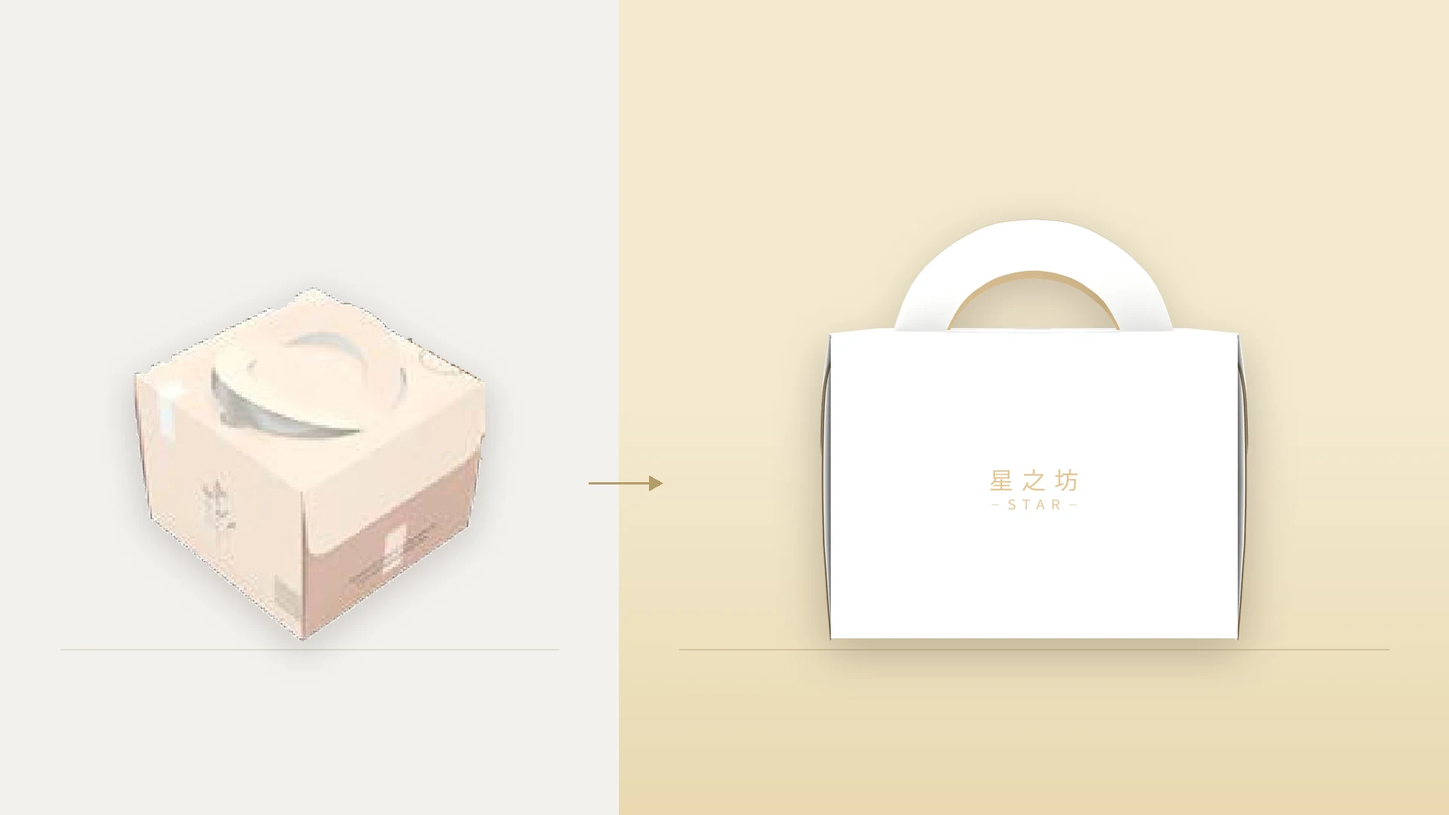
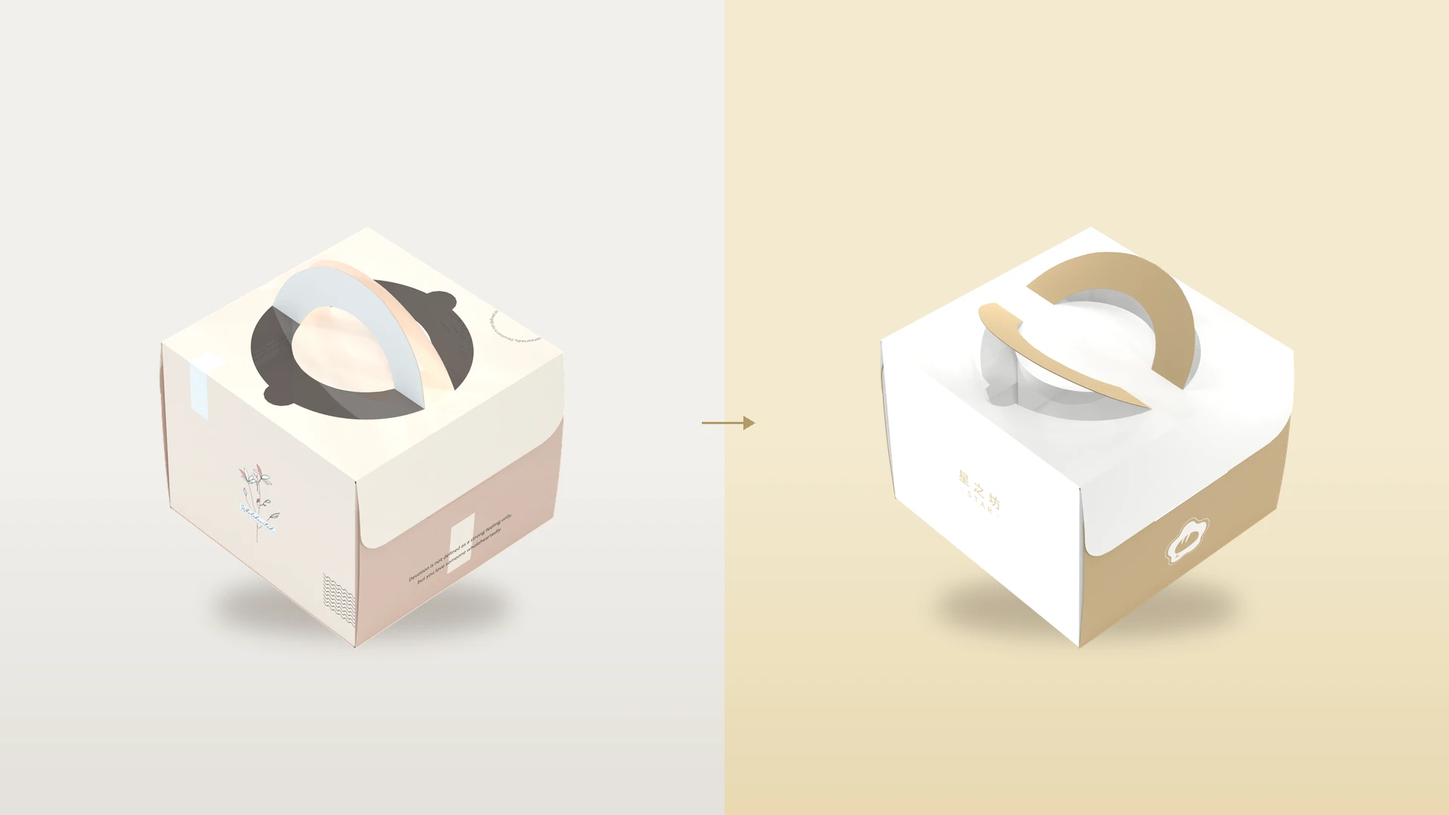
Cases: 星之坊 公版對照改用 NAS 官方公版 45° 渲染圖（去背）＋客戶設計 45° 對照
Claude-Session: https://claude.ai/code/session_01FHAxfGfD8vpumr7C1YBcXa

Changed region(s): [[0.0938, 0.0, 0.5, 1.0], [0.5625, 0.2444, 0.9062, 0.825]]

diff --git a/cases/gemalan.html b/cases/gemalan.html
@@ -26,7 +26,7 @@
 </header>
 
 <main class="sd-case">
-<article class="cs" style="--cink:#4A3A2E;--caccent:#B39A68;--csub:#9A8C78;--cbg:#FBF6EA"><header class="rl-head2 cs-io"><p class="rl-eb">STOCK PACKAGING</p><h1><span class="rl-lw" style="--lg:url(./gemalan/logo.png);width:min(300px,62vw)"><img class="rl-logo" src="./gemalan/logo.png" alt="葛瑪蘭之星飯店 Logo"></span><span class="sr">葛瑪蘭之星飯店｜星之坊</span></h1><p class="rl-kind">公版盒型・客戶自行設計</p><p class="rl-en">Star Bakery — Cake Boxes on Stock Structures</p><div class="rl-meta2"><div><small>Client</small><b>葛瑪蘭之星飯店｜星之坊</b></div><div><small>Scope</small><b>公版盒型 4 款・印刷生產</b></div><div><small>Year</small><b>2023</b></div></div></header><figure class="rl-hero"><img class="rl-pg" src="./gemalan/s/hero.webp?v=4" alt="星之坊 8吋上下蓋蛋糕盒 情境" loading="eager"></figure><div class="rl-prog" aria-hidden="true"><i></i></div><div class="rl-cnt" aria-hidden="true"><b>01</b><span>/ 09</span></div><section class="rl-reel"><figure class="rl-ai cs-io" style="--W:1920"><div class="rl-st"><img class="rl-pg" src="./gemalan/s/02.webp?v=4" alt="星之坊 02" loading="lazy" decoding="async"><div class="rl-hv"></div><div class="rl-tx"><span class="f-sans" style="--i:0;left:47.750%;top:27.778%;--s:24.0;--ls:0;color:#B39A68;font-weight:600">CLIENT</span><span class="f-serif" style="--i:1;left:41.406%;top:66.667%;--s:30.0;--ls:0;color:#4A3A2E;font-weight:500">葛瑪蘭之星飯店｜星之坊</span></div></div><details class="rl-flow"><summary>展開本頁文字</summary><div class="rl-fb"><p>葛瑪蘭之星飯店｜星之坊</p></div></details></figure><figure class="rl-ai cs-io" style="--W:1920"><div class="rl-st"><img class="rl-pg" src="./gemalan/s/c1.webp?v=4" alt="星之坊 c1" loading="lazy" decoding="async"><div class="rl-hv"></div><div class="rl-tx"><span class="f-sans" style="--i:0;left:4.167%;top:6.481%;--s:24.0;--ls:0.2;color:#B39A68;font-weight:600">STOCK STRUCTURE 01</span><span class="f-sans" style="--i:1;left:4.167%;top:9.815%;--s:24.0;--ls:0;color:#B39A68;font-weight:300">/</span><span class="f-serif" style="--i:2;left:5.625%;top:10.185%;--s:34.0;--ls:0;color:#4A3A2E;font-weight:700">公版盒型</span><span class="f-serif" style="--i:3;left:17.292%;top:86.111%;--s:26.0;--ls:0;color:#6F6A64;font-weight:700">薪鼎公版盒型</span><span class="f-sans" style="--i:4;left:17.188%;top:90.278%;--s:20.0;--ls:0;color:#8E8880;font-weight:400">公版花色「絮語」</span><span class="f-serif" style="--i:5;left:66.208%;top:86.111%;--s:26.0;--ls:0;color:#4A3A2E;font-weight:700">星之坊 套用設計</span><span class="f-sans" style="--i:6;left:62.917%;top:90.278%;--s:20.0;--ls:0;color:#9A8C78;font-weight:400">4吋手提蛋糕盒・14×14×10.5 cm</span></div></div><details class="rl-flow"><summary>展開本頁文字</summary><div class="rl-fb"><p>公版盒型：4吋手提蛋糕盒 14×14×10.5 cm</p><p>左：薪鼎公版盒型（公版花色「絮語」）</p><p>右：星之坊 套用設計</p></div></details></figure><figure class="rl-ai cs-io" style="--W:1920"><div class="rl-st"><img class="rl-pg" src="./gemalan/s/c2.webp?v=4" alt="星之坊 c2" loading="lazy" decoding="async"><div class="rl-hv"></div><div class="rl-tx"><span class="f-sans" style="--i:0;left:4.167%;top:6.481%;--s:24.0;--ls:0.2;color:#B39A68;font-weight:600">STOCK STRUCTURE 02</span><span class="f-sans" style="--i:1;left:4.167%;top:9.815%;--s:24.0;--ls:0;color:#B39A68;font-weight:300">/</span><span class="f-serif" style="--i:2;left:5.625%;top:10.185%;--s:34.0;--ls:0;color:#4A3A2E;font-weight:700">公版盒型</span><span class="f-serif" style="--i:3;left:17.292%;top:86.111%;--s:26.0;--ls:0;color:#6F6A64;font-weight:700">薪鼎公版盒型</span><span class="f-sans" style="--i:4;left:17.188%;top:90.278%;--s:20.0;--ls:0;color:#8E8880;font-weight:400">公版花色「絮語」</span><span class="f-serif" style="--i:5;left:66.208%;top:86.111%;--s:26.0;--ls:0;color:#4A3A2E;font-weight:700">星之坊 套用設計</span><span class="f-sans" style="--i:6;left:63.021%;top:90.278%;--s:20.0;--ls:0;color:#9A8C78;font-weight:400">6吋上下蓋蛋糕盒・21×21×16 cm</span></div></div><details class="rl-flow"><summary>展開本頁文字</summary><div class="rl-fb"><p>公版盒型：6吋上下蓋蛋糕盒 21×21×16 cm</p><p>左：薪鼎公版盒型（公版花色「絮語」）</p><p>右：星之坊 套用設計</p></div></details></figure><figure class="rl-ai cs-io" style="--W:1920"><div class="rl-st"><img class="rl-pg" src="./gemalan/s/c3.webp?v=4" alt="星之坊 c3" loading="lazy" decoding="async"><div class="rl-hv"></div><div class="rl-tx"><span class="f-sans" style="--i:0;left:4.167%;top:6.481%;--s:24.0;--ls:0.2;color:#B39A68;font-weight:600">STOCK STRUCTURE 03</span><span class="f-sans" style="--i:1;left:4.167%;top:9.815%;--s:24.0;--ls:0;color:#B39A68;font-weight:300">/</span><span class="f-serif" style="--i:2;left:5.625%;top:10.185%;--s:34.0;--ls:0;color:#4A3A2E;font-weight:700">公版盒型</span><span class="f-serif" style="--i:3;left:17.292%;top:86.111%;--s:26.0;--ls:0;color:#6F6A64;font-weight:700">薪鼎公版盒型</span><span class="f-sans" style="--i:4;left:16.667%;top:90.278%;--s:20.0;--ls:0;color:#8E8880;font-weight:400">公版花色「蒲公英」</span><span class="f-serif" style="--i:5;left:66.208%;top:86.111%;--s:26.0;--ls:0;color:#4A3A2E;font-weight:700">星之坊 套用設計</span><span class="f-sans" style="--i:6;left:61.771%;top:90.278%;--s:20.0;--ls:0;color:#9A8C78;font-weight:400">8吋上下蓋蛋糕盒・25.4×25.4×16 cm</span></div></div><details class="rl-flow"><summary>展開本頁文字</summary><div class="rl-fb"><p>公版盒型：8吋上下蓋蛋糕盒 25.4×25.4×16 cm</p><p>左：薪鼎公版盒型（公版花色「蒲公英」）</p><p>右：星之坊 套用設計</p></div></details></figure><figure class="rl-ai cs-io" style="--W:1920"><div class="rl-st"><img class="rl-pg" src="./gemalan/s/c4.webp?v=4" alt="星之坊 c4" loading="lazy" decoding="async"><div class="rl-hv"></div><div class="rl-tx"><span class="f-sans" style="--i:0;left:4.167%;top:6.481%;--s:24.0;--ls:0.2;color:#B39A68;font-weight:600">STOCK STRUCTURE 04</span><span class="f-sans" style="--i:1;left:4.167%;top:9.815%;--s:24.0;--ls:0;color:#B39A68;font-weight:300">/</span><span class="f-serif" style="--i:2;left:5.625%;top:10.185%;--s:34.0;--ls:0;color:#4A3A2E;font-weight:700">公版盒型</span><span class="f-serif" style="--i:3;left:17.292%;top:86.111%;--s:26.0;--ls:0;color:#6F6A64;font-weight:700">薪鼎公版盒型</span><span class="f-sans" style="--i:4;left:17.188%;top:90.278%;--s:20.0;--ls:0;color:#8E8880;font-weight:400">公版花色「絮語」</span><span class="f-serif" style="--i:5;left:66.208%;top:86.111%;--s:26.0;--ls:0;color:#4A3A2E;font-weight:700">星之坊 套用設計</span><span class="f-sans" style="--i:6;left:61.771%;top:90.278%;--s:20.0;--ls:0;color:#9A8C78;font-weight:400">花瓣盒（切片蛋糕盒）・15×10×13 cm</span></div></div><details class="rl-flow"><summary>展開本頁文字</summary><div class="rl-fb"><p>公版盒型：花瓣盒（切片蛋糕盒） 15×10×13 cm</p><p>左：薪鼎公版盒型（公版花色「絮語」）</p><p>右：星之坊 套用設計</p></div></details></figure><figure class="rl-ai cs-io" style="--W:1920"><div class="rl-st"><img class="rl-pg" src="./gemalan/s/04.webp?v=4" alt="星之坊 04" loading="lazy" decoding="async"><div class="rl-hv"></div><div class="rl-tx"><span class="f-sans" style="--i:0;left:4.167%;top:6.481%;--s:26.0;--ls:0.2;color:#B39A68;font-weight:600">APPLIED DESIGN</span><span class="f-sans" style="--i:1;left:4.167%;top:10.000%;--s:26.0;--ls:0;color:#B39A68;font-weight:300">/</span><span class="f-serif" style="--i:2;left:5.833%;top:10.370%;--s:34.0;--ls:0;color:#4A3A2E;font-weight:700">套用的設計</span><span class="f-sans" style="--i:3;left:9.375%;top:30.556%;--s:24.0;--ls:0;color:#9A8C78;font-weight:500">設計來源</span><span class="f-serif" style="--i:4;left:9.375%;top:34.259%;--s:40.0;--ls:0;color:#4A3A2E;font-weight:700">客戶自行設計</span><span class="f-sans" style="--i:5;left:9.375%;top:42.593%;--s:24.0;--ls:0;color:#9A8C78;font-weight:500">品牌標誌</span><span class="f-serif" style="--i:6;left:9.375%;top:46.296%;--s:32.0;--ls:0;color:#4A3A2E;font-weight:600">星之坊 STAR</span><span class="f-sans" style="--i:7;left:10.677%;top:67.593%;--s:20.0;--ls:0;color:#9A8C78;font-weight:500">奶油黃</span><span class="f-sans" style="--i:8;left:18.490%;top:67.593%;--s:20.0;--ls:0;color:#9A8C78;font-weight:500">檸檬黃</span><span class="f-sans" style="--i:9;left:26.823%;top:67.593%;--s:20.0;--ls:0;color:#9A8C78;font-weight:500">沙金</span><span class="f-sans" style="--i:10;left:34.115%;top:67.593%;--s:20.0;--ls:0;color:#9A8C78;font-weight:500">可可棕</span><span class="f-sans" style="--i:11;left:42.969%;top:67.593%;--s:20.0;--ls:0;color:#9A8C78;font-weight:500">白</span></div></div><details class="rl-flow"><summary>展開本頁文字</summary><div class="rl-fb"><p>設計來源：客戶自行設計</p><p>品牌標誌：星之坊 STAR</p></div></details></figure><figure class="rl-ai cs-io" style="--W:1920"><div class="rl-st"><img class="rl-pg" src="./gemalan/s/sc6.webp?v=4" alt="星之坊 6吋上下蓋蛋糕盒 情境" loading="lazy" decoding="async"><div class="rl-hv"></div><div class="rl-tx"><span class="f-sans" style="--i:0;left:7.292%;top:30.556%;--s:22.0;--ls:0.2;color:#B39A68;font-weight:600">IN USE 02</span><span class="f-serif" style="--i:1;left:7.292%;top:35.185%;--s:40.0;--ls:0;color:#4A3A2E;font-weight:700">6吋上下蓋蛋糕盒</span><span class="f-sans" style="--i:2;left:7.292%;top:42.593%;--s:20.0;--ls:0;color:#9A8C78;font-weight:400">21 × 21 × 16 cm</span></div></div><details class="rl-flow"><summary>展開本頁文字</summary><div class="rl-fb"><p>6吋上下蓋蛋糕盒 21 × 21 × 16 cm</p></div></details></figure><figure class="rl-ai cs-io" style="--W:1920"><div class="rl-st"><img class="rl-pg" src="./gemalan/s/scpetal.webp?v=4" alt="星之坊 花瓣盒 情境" loading="lazy" decoding="async"><div class="rl-hv"></div><div class="rl-tx"><span class="f-sans" style="--i:0;left:7.292%;top:30.556%;--s:22.0;--ls:0.2;color:#B39A68;font-weight:600">IN USE 03</span><span class="f-serif" style="--i:1;left:7.292%;top:35.185%;--s:40.0;--ls:0;color:#4A3A2E;font-weight:700">花瓣盒（切片蛋糕盒）</span><span class="f-sans" style="--i:2;left:7.292%;top:42.593%;--s:20.0;--ls:0;color:#9A8C78;font-weight:400">15 × 10 × 13 cm</span></div></div><details class="rl-flow"><summary>展開本頁文字</summary><div class="rl-fb"><p>花瓣盒（切片蛋糕盒） 15 × 10 × 13 cm</p></div></details></figure></section><section class="rl-cred"><div class="rl-cl"><p class="rl-ck">Credits</p><p class="rl-nt">（名單待確認）</p></div><ul><li><small>Client</small><b>葛瑪蘭之星飯店｜星之坊</b></li><li><small>Design</small><b>客戶自行設計</b></li><li><small>Stock Structures</small><b>薪鼎公版盒型</b></li><li><small>Production</small><b>Senior Deed</b></li><li><small>Year</small><b>2023</b></li></ul></section><div class="rl-end" style="padding-top:90px"><a href="./"><i>←</i>回到全部作品</a></div></article><script>(function(){document.querySelectorAll('.rl-st').forEach(function(st){var hs=[].slice.call(st.querySelectorAll('.hot'));if(!hs.length)return;var cur=null;function set(g){if(g===cur)return;cur=g;st.querySelectorAll('.hi').forEach(function(e){e.classList.remove('hi')});st.classList.toggle('hv',g!==null);if(g!==null)st.querySelectorAll('[data-g="'+g+'"]').forEach(function(e){e.classList.add('hi')})}st.addEventListener('mousemove',function(ev){var g=null;hs.forEach(function(h){var r=h.getBoundingClientRect();if(ev.clientX>=r.left&&ev.clientX<=r.right&&ev.clientY>=r.top&&ev.clientY<=r.bottom)g=h.dataset.g});set(g)});st.addEventListener('mouseleave',function(){set(null)})});document.addEventListener('click',function(e){var x=e.target.closest('.hex');if(!x)return;var v=x.textContent.trim();(navigator.clipboard?navigator.clipboard.writeText(v):Promise.reject()).catch(function(){}).then(function(){x.classList.add('ok');setTimeout(function(){x.classList.remove('ok')},1400)})});var F=document.querySelector('.rl-float');if(F&&matchMedia('(any-hover:none)').matches){var fo=new IntersectionObserver(function(es){if(es[0].isIntersecting){setTimeout(function(){F.classList.add('go')},2600);fo.disconnect()}},{threshold:.5});fo.observe(F.parentNode)}var R=document.querySelector('.rl-reel');if(R){var bar=document.querySelector('.rl-prog i'),cnt=document.querySelector('.rl-cnt b'),box=document.querySelector('.rl-cnt'),ims=document.querySelectorAll('.rl-pg');function u(){var r=R.getBoundingClientRect(),h=r.height-innerHeight,p=Math.min(1,Math.max(0,-r.top/h));bar.style.transform='scaleX('+p+')';var k=1;ims.forEach(function(im,i){if(im.getBoundingClientRect().top<innerHeight*.5)k=i+1});cnt.textContent=(k<10?'0':'')+k;var on=r.top<120&&r.bottom>innerHeight*.75;box.classList.toggle('on',on);document.querySelector('.rl-prog').classList.toggle('on',on)}addEventListener('scroll',u,{passive:true});u()}var io=new IntersectionObserver(function(es){es.forEach(function(e){if(e.isIntersecting){e.target.classList.add("on");(function(t){setTimeout(function(){t.classList.add("ready")},2600)})(e.target);io.unobserve(e.target)}})},{threshold:.18,rootMargin:"0px 0px -6% 0px"});
+<article class="cs" style="--cink:#4A3A2E;--caccent:#B39A68;--csub:#9A8C78;--cbg:#FBF6EA"><header class="rl-head2 cs-io"><p class="rl-eb">STOCK PACKAGING</p><h1><span class="rl-lw" style="--lg:url(./gemalan/logo.png);width:min(300px,62vw)"><img class="rl-logo" src="./gemalan/logo.png" alt="葛瑪蘭之星飯店 Logo"></span><span class="sr">葛瑪蘭之星飯店｜星之坊</span></h1><p class="rl-kind">公版盒型・客戶自行設計</p><p class="rl-en">Star Bakery — Cake Boxes on Stock Structures</p><div class="rl-meta2"><div><small>Client</small><b>葛瑪蘭之星飯店｜星之坊</b></div><div><small>Scope</small><b>公版盒型 4 款・印刷生產</b></div><div><small>Year</small><b>2023</b></div></div></header><figure class="rl-hero"><img class="rl-pg" src="./gemalan/s/hero.webp?v=4" alt="星之坊 8吋上下蓋蛋糕盒 情境" loading="eager"></figure><div class="rl-prog" aria-hidden="true"><i></i></div><div class="rl-cnt" aria-hidden="true"><b>01</b><span>/ 09</span></div><section class="rl-reel"><figure class="rl-ai cs-io" style="--W:1920"><div class="rl-st"><img class="rl-pg" src="./gemalan/s/02.webp?v=4" alt="星之坊 02" loading="lazy" decoding="async"><div class="rl-hv"></div><div class="rl-tx"><span class="f-sans" style="--i:0;left:47.750%;top:27.778%;--s:24.0;--ls:0;color:#B39A68;font-weight:600">CLIENT</span><span class="f-serif" style="--i:1;left:41.406%;top:66.667%;--s:30.0;--ls:0;color:#4A3A2E;font-weight:500">葛瑪蘭之星飯店｜星之坊</span></div></div><details class="rl-flow"><summary>展開本頁文字</summary><div class="rl-fb"><p>葛瑪蘭之星飯店｜星之坊</p></div></details></figure><figure class="rl-ai cs-io" style="--W:1920"><div class="rl-st"><img class="rl-pg" src="./gemalan/s/c1.webp?v=5" alt="星之坊 c1" loading="lazy" decoding="async"><div class="rl-hv"></div><div class="rl-tx"><span class="f-sans" style="--i:0;left:4.167%;top:6.481%;--s:24.0;--ls:0.2;color:#B39A68;font-weight:600">STOCK STRUCTURE 01</span><span class="f-sans" style="--i:1;left:4.167%;top:9.815%;--s:24.0;--ls:0;color:#B39A68;font-weight:300">/</span><span class="f-serif" style="--i:2;left:5.625%;top:10.185%;--s:34.0;--ls:0;color:#4A3A2E;font-weight:700">公版盒型</span><span class="f-serif" style="--i:3;left:20.938%;top:86.111%;--s:26.0;--ls:0;color:#6F6A64;font-weight:700">薪鼎公版盒型</span><span class="f-sans" style="--i:4;left:20.834%;top:90.278%;--s:20.0;--ls:0;color:#8E8880;font-weight:400">公版花色「絮語」</span><span class="f-serif" style="--i:5;left:69.854%;top:86.111%;--s:26.0;--ls:0;color:#4A3A2E;font-weight:700">星之坊 套用設計</span><span class="f-sans" style="--i:6;left:66.563%;top:90.278%;--s:20.0;--ls:0;color:#9A8C78;font-weight:400">4吋手提蛋糕盒・14×14×10.5 cm</span></div></div><details class="rl-flow"><summary>展開本頁文字</summary><div class="rl-fb"><p>公版盒型：4吋手提蛋糕盒 14×14×10.5 cm</p><p>左：薪鼎公版盒型（公版花色「絮語」）</p><p>右：星之坊 套用設計</p></div></details></figure><figure class="rl-ai cs-io" style="--W:1920"><div class="rl-st"><img class="rl-pg" src="./gemalan/s/c2.webp?v=5" alt="星之坊 c2" loading="lazy" decoding="async"><div class="rl-hv"></div><div class="rl-tx"><span class="f-sans" style="--i:0;left:4.167%;top:6.481%;--s:24.0;--ls:0.2;color:#B39A68;font-weight:600">STOCK STRUCTURE 02</span><span class="f-sans" style="--i:1;left:4.167%;top:9.815%;--s:24.0;--ls:0;color:#B39A68;font-weight:300">/</span><span class="f-serif" style="--i:2;left:5.625%;top:10.185%;--s:34.0;--ls:0;color:#4A3A2E;font-weight:700">公版盒型</span><span class="f-serif" style="--i:3;left:20.938%;top:86.111%;--s:26.0;--ls:0;color:#6F6A64;font-weight:700">薪鼎公版盒型</span><span class="f-sans" style="--i:4;left:20.834%;top:90.278%;--s:20.0;--ls:0;color:#8E8880;font-weight:400">公版花色「絮語」</span><span class="f-serif" style="--i:5;left:69.854%;top:86.111%;--s:26.0;--ls:0;color:#4A3A2E;font-weight:700">星之坊 套用設計</span><span class="f-sans" style="--i:6;left:66.667%;top:90.278%;--s:20.0;--ls:0;color:#9A8C78;font-weight:400">6吋上下蓋蛋糕盒・21×21×16 cm</span></div></div><details class="rl-flow"><summary>展開本頁文字</summary><div class="rl-fb"><p>公版盒型：6吋上下蓋蛋糕盒 21×21×16 cm</p><p>左：薪鼎公版盒型（公版花色「絮語」）</p><p>右：星之坊 套用設計</p></div></details></figure><figure class="rl-ai cs-io" style="--W:1920"><div class="rl-st"><img class="rl-pg" src="./gemalan/s/c3.webp?v=5" alt="星之坊 c3" loading="lazy" decoding="async"><div class="rl-hv"></div><div class="rl-tx"><span class="f-sans" style="--i:0;left:4.167%;top:6.481%;--s:24.0;--ls:0.2;color:#B39A68;font-weight:600">STOCK STRUCTURE 03</span><span class="f-sans" style="--i:1;left:4.167%;top:9.815%;--s:24.0;--ls:0;color:#B39A68;font-weight:300">/</span><span class="f-serif" style="--i:2;left:5.625%;top:10.185%;--s:34.0;--ls:0;color:#4A3A2E;font-weight:700">公版盒型</span><span class="f-serif" style="--i:3;left:20.938%;top:86.111%;--s:26.0;--ls:0;color:#6F6A64;font-weight:700">薪鼎公版盒型</span><span class="f-sans" style="--i:4;left:20.313%;top:90.278%;--s:20.0;--ls:0;color:#8E8880;font-weight:400">公版花色「蒲公英」</span><span class="f-serif" style="--i:5;left:69.854%;top:86.111%;--s:26.0;--ls:0;color:#4A3A2E;font-weight:700">星之坊 套用設計</span><span class="f-sans" style="--i:6;left:65.417%;top:90.278%;--s:20.0;--ls:0;color:#9A8C78;font-weight:400">8吋上下蓋蛋糕盒・25.4×25.4×16 cm</span></div></div><details class="rl-flow"><summary>展開本頁文字</summary><div class="rl-fb"><p>公版盒型：8吋上下蓋蛋糕盒 25.4×25.4×16 cm</p><p>左：薪鼎公版盒型（公版花色「蒲公英」）</p><p>右：星之坊 套用設計</p></div></details></figure><figure class="rl-ai cs-io" style="--W:1920"><div class="rl-st"><img class="rl-pg" src="./gemalan/s/c4.webp?v=5" alt="星之坊 c4" loading="lazy" decoding="async"><div class="rl-hv"></div><div class="rl-tx"><span class="f-sans" style="--i:0;left:4.167%;top:6.481%;--s:24.0;--ls:0.2;color:#B39A68;font-weight:600">STOCK STRUCTURE 04</span><span class="f-sans" style="--i:1;left:4.167%;top:9.815%;--s:24.0;--ls:0;color:#B39A68;font-weight:300">/</span><span class="f-serif" style="--i:2;left:5.625%;top:10.185%;--s:34.0;--ls:0;color:#4A3A2E;font-weight:700">公版盒型</span><span class="f-serif" style="--i:3;left:20.938%;top:86.111%;--s:26.0;--ls:0;color:#6F6A64;font-weight:700">薪鼎公版盒型</span><span class="f-sans" style="--i:4;left:20.834%;top:90.278%;--s:20.0;--ls:0;color:#8E8880;font-weight:400">公版花色「絮語」</span><span class="f-serif" style="--i:5;left:69.854%;top:86.111%;--s:26.0;--ls:0;color:#4A3A2E;font-weight:700">星之坊 套用設計</span><span class="f-sans" style="--i:6;left:65.417%;top:90.278%;--s:20.0;--ls:0;color:#9A8C78;font-weight:400">花瓣盒（切片蛋糕盒）・15×10×13 cm</span></div></div><details class="rl-flow"><summary>展開本頁文字</summary><div class="rl-fb"><p>公版盒型：花瓣盒（切片蛋糕盒） 15×10×13 cm</p><p>左：薪鼎公版盒型（公版花色「絮語」）</p><p>右：星之坊 套用設計</p></div></details></figure><figure class="rl-ai cs-io" style="--W:1920"><div class="rl-st"><img class="rl-pg" src="./gemalan/s/04.webp?v=4" alt="星之坊 04" loading="lazy" decoding="async"><div class="rl-hv"></div><div class="rl-tx"><span class="f-sans" style="--i:0;left:4.167%;top:6.481%;--s:26.0;--ls:0.2;color:#B39A68;font-weight:600">APPLIED DESIGN</span><span class="f-sans" style="--i:1;left:4.167%;top:10.000%;--s:26.0;--ls:0;color:#B39A68;font-weight:300">/</span><span class="f-serif" style="--i:2;left:5.833%;top:10.370%;--s:34.0;--ls:0;color:#4A3A2E;font-weight:700">套用的設計</span><span class="f-sans" style="--i:3;left:9.375%;top:30.556%;--s:24.0;--ls:0;color:#9A8C78;font-weight:500">設計來源</span><span class="f-serif" style="--i:4;left:9.375%;top:34.259%;--s:40.0;--ls:0;color:#4A3A2E;font-weight:700">客戶自行設計</span><span class="f-sans" style="--i:5;left:9.375%;top:42.593%;--s:24.0;--ls:0;color:#9A8C78;font-weight:500">品牌標誌</span><span class="f-serif" style="--i:6;left:9.375%;top:46.296%;--s:32.0;--ls:0;color:#4A3A2E;font-weight:600">星之坊 STAR</span><span class="f-sans" style="--i:7;left:10.677%;top:67.593%;--s:20.0;--ls:0;color:#9A8C78;font-weight:500">奶油黃</span><span class="f-sans" style="--i:8;left:18.490%;top:67.593%;--s:20.0;--ls:0;color:#9A8C78;font-weight:500">檸檬黃</span><span class="f-sans" style="--i:9;left:26.823%;top:67.593%;--s:20.0;--ls:0;color:#9A8C78;font-weight:500">沙金</span><span class="f-sans" style="--i:10;left:34.115%;top:67.593%;--s:20.0;--ls:0;color:#9A8C78;font-weight:500">可可棕</span><span class="f-sans" style="--i:11;left:42.969%;top:67.593%;--s:20.0;--ls:0;color:#9A8C78;font-weight:500">白</span></div></div><details class="rl-flow"><summary>展開本頁文字</summary><div class="rl-fb"><p>設計來源：客戶自行設計</p><p>品牌標誌：星之坊 STAR</p></div></details></figure><figure class="rl-ai cs-io" style="--W:1920"><div class="rl-st"><img class="rl-pg" src="./gemalan/s/sc6.webp?v=4" alt="星之坊 6吋上下蓋蛋糕盒 情境" loading="lazy" decoding="async"><div class="rl-hv"></div><div class="rl-tx"><span class="f-sans" style="--i:0;left:7.292%;top:30.556%;--s:22.0;--ls:0.2;color:#B39A68;font-weight:600">IN USE 02</span><span class="f-serif" style="--i:1;left:7.292%;top:35.185%;--s:40.0;--ls:0;color:#4A3A2E;font-weight:700">6吋上下蓋蛋糕盒</span><span class="f-sans" style="--i:2;left:7.292%;top:42.593%;--s:20.0;--ls:0;color:#9A8C78;font-weight:400">21 × 21 × 16 cm</span></div></div><details class="rl-flow"><summary>展開本頁文字</summary><div class="rl-fb"><p>6吋上下蓋蛋糕盒 21 × 21 × 16 cm</p></div></details></figure><figure class="rl-ai cs-io" style="--W:1920"><div class="rl-st"><img class="rl-pg" src="./gemalan/s/scpetal.webp?v=4" alt="星之坊 花瓣盒 情境" loading="lazy" decoding="async"><div class="rl-hv"></div><div class="rl-tx"><span class="f-sans" style="--i:0;left:7.292%;top:30.556%;--s:22.0;--ls:0.2;color:#B39A68;font-weight:600">IN USE 03</span><span class="f-serif" style="--i:1;left:7.292%;top:35.185%;--s:40.0;--ls:0;color:#4A3A2E;font-weight:700">花瓣盒（切片蛋糕盒）</span><span class="f-sans" style="--i:2;left:7.292%;top:42.593%;--s:20.0;--ls:0;color:#9A8C78;font-weight:400">15 × 10 × 13 cm</span></div></div><details class="rl-flow"><summary>展開本頁文字</summary><div class="rl-fb"><p>花瓣盒（切片蛋糕盒） 15 × 10 × 13 cm</p></div></details></figure></section><section class="rl-cred"><div class="rl-cl"><p class="rl-ck">Credits</p><p class="rl-nt">（名單待確認）</p></div><ul><li><small>Client</small><b>葛瑪蘭之星飯店｜星之坊</b></li><li><small>Design</small><b>客戶自行設計</b></li><li><small>Stock Structures</small><b>薪鼎公版盒型</b></li><li><small>Production</small><b>Senior Deed</b></li><li><small>Year</small><b>2023</b></li></ul></section><div class="rl-end" style="padding-top:90px"><a href="./"><i>←</i>回到全部作品</a></div></article><script>(function(){document.querySelectorAll('.rl-st').forEach(function(st){var hs=[].slice.call(st.querySelectorAll('.hot'));if(!hs.length)return;var cur=null;function set(g){if(g===cur)return;cur=g;st.querySelectorAll('.hi').forEach(function(e){e.classList.remove('hi')});st.classList.toggle('hv',g!==null);if(g!==null)st.querySelectorAll('[data-g="'+g+'"]').forEach(function(e){e.classList.add('hi')})}st.addEventListener('mousemove',function(ev){var g=null;hs.forEach(function(h){var r=h.getBoundingClientRect();if(ev.clientX>=r.left&&ev.clientX<=r.right&&ev.clientY>=r.top&&ev.clientY<=r.bottom)g=h.dataset.g});set(g)});st.addEventListener('mouseleave',function(){set(null)})});document.addEventListener('click',function(e){var x=e.target.closest('.hex');if(!x)return;var v=x.textContent.trim();(navigator.clipboard?navigator.clipboard.writeText(v):Promise.reject()).catch(function(){}).then(function(){x.classList.add('ok');setTimeout(function(){x.classList.remove('ok')},1400)})});var F=document.querySelector('.rl-float');if(F&&matchMedia('(any-hover:none)').matches){var fo=new IntersectionObserver(function(es){if(es[0].isIntersecting){setTimeout(function(){F.classList.add('go')},2600);fo.disconnect()}},{threshold:.5});fo.observe(F.parentNode)}var R=document.querySelector('.rl-reel');if(R){var bar=document.querySelector('.rl-prog i'),cnt=document.querySelector('.rl-cnt b'),box=document.querySelector('.rl-cnt'),ims=document.querySelectorAll('.rl-pg');function u(){var r=R.getBoundingClientRect(),h=r.height-innerHeight,p=Math.min(1,Math.max(0,-r.top/h));bar.style.transform='scaleX('+p+')';var k=1;ims.forEach(function(im,i){if(im.getBoundingClientRect().top<innerHeight*.5)k=i+1});cnt.textContent=(k<10?'0':'')+k;var on=r.top<120&&r.bottom>innerHeight*.75;box.classList.toggle('on',on);document.querySelector('.rl-prog').classList.toggle('on',on)}addEventListener('scroll',u,{passive:true});u()}var io=new IntersectionObserver(function(es){es.forEach(function(e){if(e.isIntersecting){e.target.classList.add("on");(function(t){setTimeout(function(){t.classList.add("ready")},2600)})(e.target);io.unobserve(e.target)}})},{threshold:.18,rootMargin:"0px 0px -6% 0px"});
 document.querySelectorAll(".cs-io").forEach(function(el){io.observe(el)});var io2=new IntersectionObserver(function(es){es.forEach(function(e){if(e.isIntersecting){e.target.classList.add('in');io2.unobserve(e.target)}})},{threshold:.12});document.querySelectorAll('.rl-reel > .rl-pg, .rl-reel > .rl-kb').forEach(function(el){io2.observe(el)});
 var VI=new IntersectionObserver(function(es){es.forEach(function(e){var v=e.target.querySelector('video');if(e.isIntersecting){v.preload='auto';v.play().catch(function(){})}else v.pause()})},{threshold:.35});document.querySelectorAll('.rl-vid,.rl-clip,.rl-v16').forEach(function(b){VI.observe(b);var bt=b.querySelector('.rl-snd');if(bt)bt.addEventListener('click',function(){var v=b.querySelector('video');v.muted=!v.muted;if(!v.muted)v.volume=.3;bt.classList.toggle('on',!v.muted);if(!v.muted){v.currentTime=0;v.play()}})});document.querySelectorAll('.rl-jy').forEach(function(J){var its=[].slice.call(J.querySelectorAll('.jy-it')),vs=its.map(function(i){return i.querySelector('video')}),cur=-1,vis=false,hov=false;function go(k){if(cur>-1){vs[cur].pause();its[cur].classList.remove('on')}cur=k;its.forEach(function(it,i){it.classList.toggle('done',i<k)});its[k].classList.add('on');J.style.setProperty('--p',k);vs[k].currentTime=0;vs[k].play().catch(function(){})}vs.forEach(function(v,i){v.preload='auto';v.addEventListener('ended',function(){if(!vis)return;go(hov?i:(i+1)%vs.length)})});its.forEach(function(it,i){it.addEventListener('mouseenter',function(){hov=true;if(i!==cur)go(i)});it.addEventListener('mouseleave',function(){hov=false})});new IntersectionObserver(function(es){vis=es[0].isIntersecting;if(vis){go(cur<0?0:cur)}else if(cur>-1)vs[cur].pause()},{threshold:.4}).observe(J)});var h=document.querySelector(".cs-hero .cs-im img");if(h&&!matchMedia("(prefers-reduced-motion: reduce)").matches){addEventListener("scroll",function(){var y=Math.min(scrollY,900);h.style.transform="translateY("+(y*.18)+"px) scale(1.06)"},{passive:true})}})();</script>
 </main>
